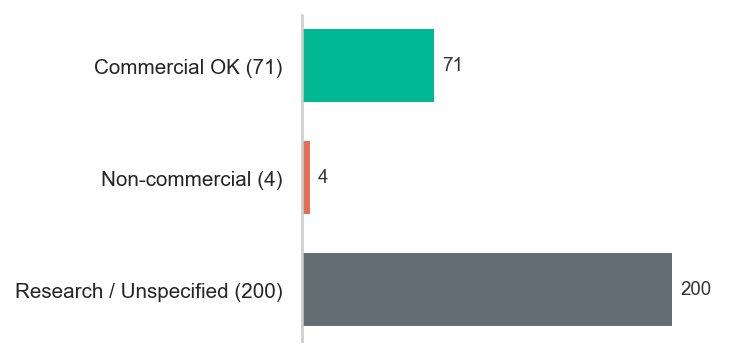
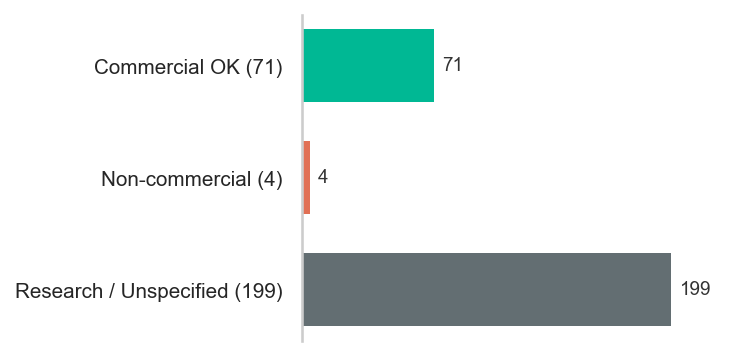
docs(ayase): regenerate metrics and models references

diff --git a/METRICS.md b/METRICS.md
@@ -1,6 +1,6 @@
 # Ayase Metrics Reference
 
-> **Version 0.1.74** · Generated 2026-09-02 23:36 · **375 modules** · **511 metrics**
+> **Version 0.1.74** · Generated 2026-09-03 02:58 · **375 modules** · **511 metrics**
 >
 > `ayase modules docs -o METRICS.md` to regenerate
 >
@@ -435,7 +435,7 @@
 - **Packages**: boto3, data_processor, internvl2, model, safetensors, torch, transformers
 - **Source**: <a href="https://huggingface.co/MJ-Bench/MJ-VIDEO-2B" target="_blank">HF</a>
 - **Tests**: covered by [`test_mj_video.py`](tests/modules/per_module/test_mj_video.py)
-- **Config**: `model_name=MJ-Bench/MJ-VIDEO-2B`, `source_url=https://huggingface.co/AkaneTendo25/ayase-runtime-assets/resolve/main/mj_video/source-cc1d2c9587a620e9ebd3599ae4cdd21b5fd7c87a.zip`, `tokenizer_base_url=https://huggingface.co/internlm/internlm2-chat-1_8b/resolve`, `tokenizer_revision=main`, `num_segments=8`, `max_new_tokens=1024`, `do_sample=True`, `gating_temperature=1.0`, `gating_hidden_dim=1024`, `gating_n_hidden=3`
+- **Config**: `model_name=MJ-Bench/MJ-VIDEO-2B`, `tokenizer_base_url=https://huggingface.co/internlm/internlm2-chat-1_8b/resolve`, `tokenizer_revision=main`, `num_segments=8`, `max_new_tokens=1024`, `do_sample=True`, `gating_temperature=1.0`, `gating_hidden_dim=1024`, `gating_n_hidden=3`
 
 ### `modularbvqa_score` [↑](#categories)
 > ModularBVQA resolution-aware (higher=better) · ↑ higher=better
@@ -2279,7 +2279,7 @@
 - **Packages**: boto3, data_processor, internvl2, model, safetensors, torch, transformers
 - **Source**: <a href="https://huggingface.co/MJ-Bench/MJ-VIDEO-2B" target="_blank">HF</a>
 - **Tests**: covered by [`test_mj_video.py`](tests/modules/per_module/test_mj_video.py)
-- **Config**: `model_name=MJ-Bench/MJ-VIDEO-2B`, `source_url=https://huggingface.co/AkaneTendo25/ayase-runtime-assets/resolve/main/mj_video/source-cc1d2c9587a620e9ebd3599ae4cdd21b5fd7c87a.zip`, `tokenizer_base_url=https://huggingface.co/internlm/internlm2-chat-1_8b/resolve`, `tokenizer_revision=main`, `num_segments=8`, `max_new_tokens=1024`, `do_sample=True`, `gating_temperature=1.0`, `gating_hidden_dim=1024`, `gating_n_hidden=3`
+- **Config**: `model_name=MJ-Bench/MJ-VIDEO-2B`, `tokenizer_base_url=https://huggingface.co/internlm/internlm2-chat-1_8b/resolve`, `tokenizer_revision=main`, `num_segments=8`, `max_new_tokens=1024`, `do_sample=True`, `gating_temperature=1.0`, `gating_hidden_dim=1024`, `gating_n_hidden=3`
 
 ### `mj_video_overall_score` [↑](#categories)
 > MJ-Video learned preference reward · ↑ higher=better
@@ -2291,7 +2291,7 @@
 - **Packages**: boto3, data_processor, internvl2, model, safetensors, torch, transformers
 - **Source**: <a href="https://huggingface.co/MJ-Bench/MJ-VIDEO-2B" target="_blank">HF</a>
 - **Tests**: covered by [`test_mj_video.py`](tests/modules/per_module/test_mj_video.py)
-- **Config**: `model_name=MJ-Bench/MJ-VIDEO-2B`, `source_url=https://huggingface.co/AkaneTendo25/ayase-runtime-assets/resolve/main/mj_video/source-cc1d2c9587a620e9ebd3599ae4cdd21b5fd7c87a.zip`, `tokenizer_base_url=https://huggingface.co/internlm/internlm2-chat-1_8b/resolve`, `tokenizer_revision=main`, `num_segments=8`, `max_new_tokens=1024`, `do_sample=True`, `gating_temperature=1.0`, `gating_hidden_dim=1024`, `gating_n_hidden=3`
+- **Config**: `model_name=MJ-Bench/MJ-VIDEO-2B`, `tokenizer_base_url=https://huggingface.co/internlm/internlm2-chat-1_8b/resolve`, `tokenizer_revision=main`, `num_segments=8`, `max_new_tokens=1024`, `do_sample=True`, `gating_temperature=1.0`, `gating_hidden_dim=1024`, `gating_n_hidden=3`
 
 ### `phyground_spatial_alignment_score` [↑](#categories)
 > SA judge score (1-5) · ↑ higher=better · 1-5
@@ -2887,7 +2887,7 @@
 - **Packages**: boto3, data_processor, internvl2, model, safetensors, torch, transformers
 - **Source**: <a href="https://huggingface.co/MJ-Bench/MJ-VIDEO-2B" target="_blank">HF</a>
 - **Tests**: covered by [`test_mj_video.py`](tests/modules/per_module/test_mj_video.py)
-- **Config**: `model_name=MJ-Bench/MJ-VIDEO-2B`, `source_url=https://huggingface.co/AkaneTendo25/ayase-runtime-assets/resolve/main/mj_video/source-cc1d2c9587a620e9ebd3599ae4cdd21b5fd7c87a.zip`, `tokenizer_base_url=https://huggingface.co/internlm/internlm2-chat-1_8b/resolve`, `tokenizer_revision=main`, `num_segments=8`, `max_new_tokens=1024`, `do_sample=True`, `gating_temperature=1.0`, `gating_hidden_dim=1024`, `gating_n_hidden=3`
+- **Config**: `model_name=MJ-Bench/MJ-VIDEO-2B`, `tokenizer_base_url=https://huggingface.co/internlm/internlm2-chat-1_8b/resolve`, `tokenizer_revision=main`, `num_segments=8`, `max_new_tokens=1024`, `do_sample=True`, `gating_temperature=1.0`, `gating_hidden_dim=1024`, `gating_n_hidden=3`
 
 ### `object_permanence_border_exit` [↑](#categories)
 > Tracks that ended at the frame border (a legitimate exit)
@@ -5548,7 +5548,7 @@ Used by: [`knowledge_graph`](src/ayase/modules/knowledge_graph.py), [`usability_
 - **Packages**: boto3, data_processor, internvl2, model, safetensors, torch, transformers
 - **Source**: <a href="https://huggingface.co/MJ-Bench/MJ-VIDEO-2B" target="_blank">HF</a>
 - **Tests**: covered by [`test_mj_video.py`](tests/modules/per_module/test_mj_video.py)
-- **Config**: `model_name=MJ-Bench/MJ-VIDEO-2B`, `source_url=https://huggingface.co/AkaneTendo25/ayase-runtime-assets/resolve/main/mj_video/source-cc1d2c9587a620e9ebd3599ae4cdd21b5fd7c87a.zip`, `tokenizer_base_url=https://huggingface.co/internlm/internlm2-chat-1_8b/resolve`, `tokenizer_revision=main`, `num_segments=8`, `max_new_tokens=1024`, `do_sample=True`, `gating_temperature=1.0`, `gating_hidden_dim=1024`, `gating_n_hidden=3`
+- **Config**: `model_name=MJ-Bench/MJ-VIDEO-2B`, `tokenizer_base_url=https://huggingface.co/internlm/internlm2-chat-1_8b/resolve`, `tokenizer_revision=main`, `num_segments=8`, `max_new_tokens=1024`, `do_sample=True`, `gating_temperature=1.0`, `gating_hidden_dim=1024`, `gating_n_hidden=3`
 
 ### `mj_video_safety_score` [↑](#categories)
 > MJ-Video safety aspect · ↑ higher=better
@@ -5560,7 +5560,7 @@ Used by: [`knowledge_graph`](src/ayase/modules/knowledge_graph.py), [`usability_
 - **Packages**: boto3, data_processor, internvl2, model, safetensors, torch, transformers
 - **Source**: <a href="https://huggingface.co/MJ-Bench/MJ-VIDEO-2B" target="_blank">HF</a>
 - **Tests**: covered by [`test_mj_video.py`](tests/modules/per_module/test_mj_video.py)
-- **Config**: `model_name=MJ-Bench/MJ-VIDEO-2B`, `source_url=https://huggingface.co/AkaneTendo25/ayase-runtime-assets/resolve/main/mj_video/source-cc1d2c9587a620e9ebd3599ae4cdd21b5fd7c87a.zip`, `tokenizer_base_url=https://huggingface.co/internlm/internlm2-chat-1_8b/resolve`, `tokenizer_revision=main`, `num_segments=8`, `max_new_tokens=1024`, `do_sample=True`, `gating_temperature=1.0`, `gating_hidden_dim=1024`, `gating_n_hidden=3`
+- **Config**: `model_name=MJ-Bench/MJ-VIDEO-2B`, `tokenizer_base_url=https://huggingface.co/internlm/internlm2-chat-1_8b/resolve`, `tokenizer_revision=main`, `num_segments=8`, `max_new_tokens=1024`, `do_sample=True`, `gating_temperature=1.0`, `gating_hidden_dim=1024`, `gating_n_hidden=3`
 
 ### `nsfw_score` [↑](#categories)
 > 0-1, likelihood of being NSFW · ↑ higher=better · 0-1

diff --git a/MODELS.md b/MODELS.md
@@ -1,12 +1,12 @@
 # Ayase Models Reference
 
-> **Version 0.1.74** · Generated 2026-09-02 23:37 · **275 models** across **9 sources**
+> **Version 0.1.74** · Generated 2026-09-03 02:59 · **274 models** across **9 sources**
 >
 > `ayase modules models -o MODELS.md` to regenerate
 
 ## Summary
 
-**275** models · **106** HuggingFace · **55** pyiqa · **9** sources
+**274** models · **106** HuggingFace · **55** pyiqa · **9** sources
 
 *License labels in this document cover model weights and runtime assets referenced by Ayase modules.*
 *They do not describe the license of Ayase source code or vendored third-party source trees.*
@@ -31,7 +31,7 @@
 
 <a id="categories"></a>
 
-[HuggingFace (77)](#huggingface-models) · [Weight Files (29)](#weight-file-repos) · [pyiqa (55)](#pyiqa-metrics) · [torchvision (14)](#torchvision-models) · [CLIP / OpenCLIP (2)](#clip--openclip) · [torch.hub (4)](#torchhub) · [FFmpeg (7)](#ffmpeg) · [pip Packages (37)](#pip-packages) · [Local Weights (39)](#local-weight-files) · [Quick Install Guide](#quick-install-guide)
+[HuggingFace (77)](#huggingface-models) · [Weight Files (29)](#weight-file-repos) · [pyiqa (55)](#pyiqa-metrics) · [torchvision (14)](#torchvision-models) · [CLIP / OpenCLIP (2)](#clip--openclip) · [torch.hub (4)](#torchhub) · [FFmpeg (7)](#ffmpeg) · [pip Packages (37)](#pip-packages) · [Local Weights (38)](#local-weight-files) · [Quick Install Guide](#quick-install-guide)
 
 ---
 
@@ -39,7 +39,7 @@
 
 ### <a href="https://huggingface.co/AkaneTendo25/ayase-runtime-assets/resolve/409c832ac7a30524a48ab642455bf963c2a95d1f/expression_following/face_landmarker.task" target="_blank">`AkaneTendo25/ayase-runtime-assets`</a> [↑](#categories)
 
-- **Used by**: `expression_following`, `expression_similarity`, `eyebrow_dynamics`, `head_motion_dynamics`, `head_pose_similarity`, `id_sim`, `lip_dynamics`, `mj_video`, `mouth_quality`, `silent_lip_stability`, `vbench2`, `vebench`, `worldmodelbench`
+- **Used by**: `expression_following`, `expression_similarity`, `eyebrow_dynamics`, `head_motion_dynamics`, `head_pose_similarity`, `id_sim`, `lip_dynamics`, `mouth_quality`, `silent_lip_stability`, `vbench2`, `vebench`, `worldmodelbench`
 
 ### <a href="https://huggingface.co/Aleksandar/nearid-siglip2" target="_blank">`Aleksandar/nearid-siglip2`</a> [↑](#categories)
 > image-feature-extraction · apache-2.0
@@ -675,12 +675,6 @@ Checkpoint files downloaded directly by Ayase modules or supplied through a loca
 
 - **Used by**: `audio_visual_sync`, `av_desync`, `av_sync`
 - **Task**: Optional learned A/V offset backend when local weights are configured
-
-### <a href="https://github.com/Q-Future/Visual-Question-Answering-for-Video-Quality-Assessment/archive/9087c7952052088a6eb01bac4408bff903ab9e41.zip" target="_blank">`VQA2-source-9087c7952052088a6eb01bac4408bff903ab9e41.zip`</a> [↑](#categories)
-
-- **Used by**: `vqa2`
-- **Task**: Pinned upstream VQA² LLaVA runtime source
-- **Notes**: Apache-2.0
 
 ### `aesthetic_predictor_v2_5.pth` [↑](#categories)
 
